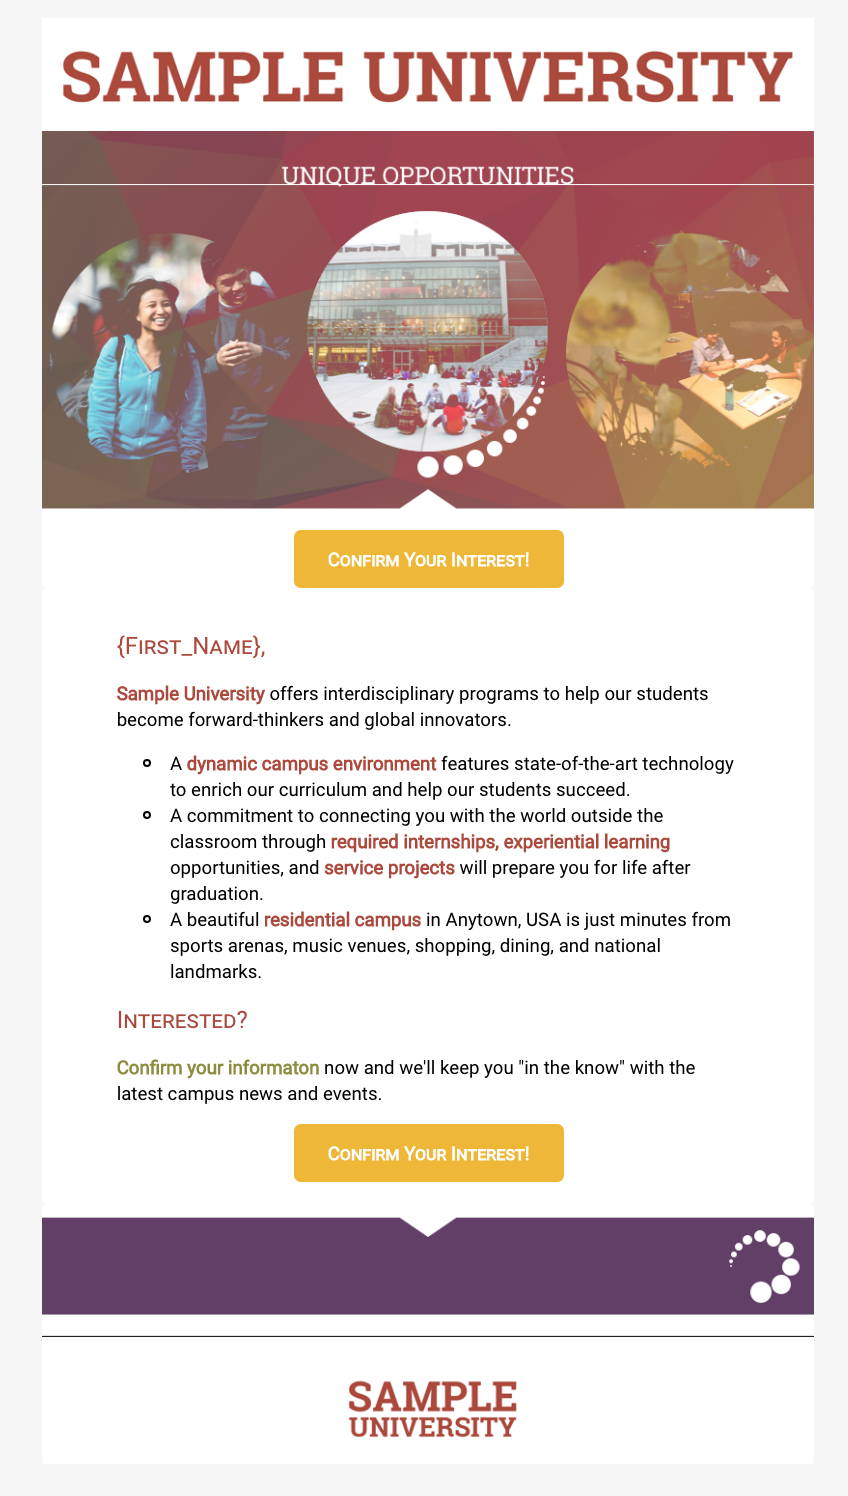
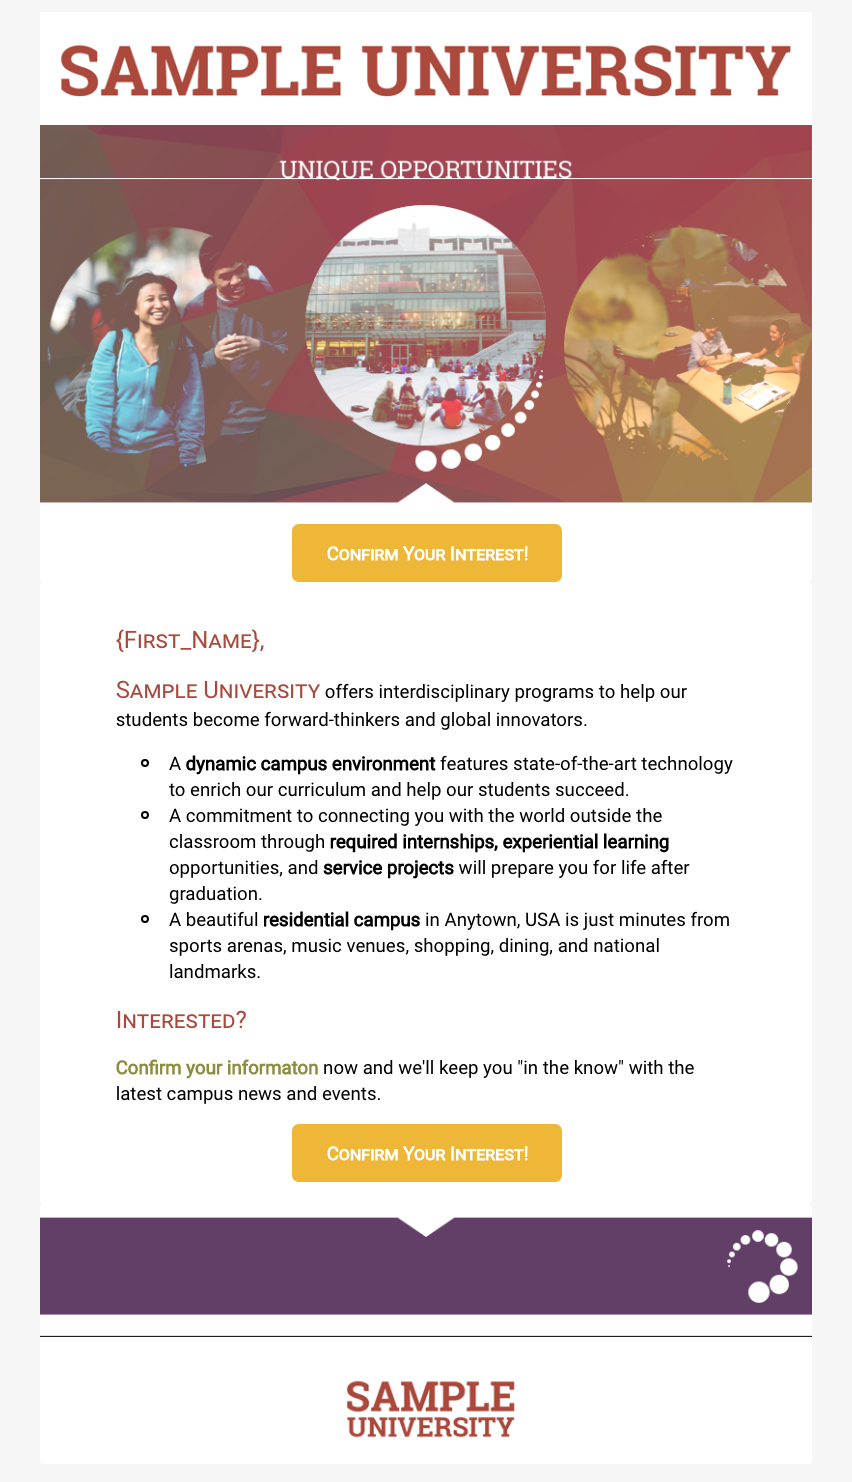
add new screen shot/change color of font

diff --git a/index.html b/index.html
@@ -111,10 +111,6 @@
     ul {
       list-style-type: circle;
     }
-    .color {
-      color: #AB493C;
-      font-weight: bold;
-    }
     .important {
       color: #AB493C;
       font-size: 18px;
@@ -300,11 +296,11 @@
                     <tr>
                       <td class="info">
                         <p><span class="important">{First_Name},</span></p>
-                        <p><span class="color">Sample University</span> offers interdisciplinary programs to help our students become forward-thinkers and global innovators.</p>
+                        <p><span class="important">Sample University</span> offers interdisciplinary programs to help our students become forward-thinkers and global innovators.</p>
                         <ul>
-                          <li>A <span class="color">dynamic campus environment</span> features state-of-the-art technology to enrich our curriculum and help our students succeed.</li>
-                          <li>A commitment to connecting you with the world outside the classroom through <span class="color">required internships, experiential learning</span> opportunities, and <span class="color">service projects</span> will prepare you for life after graduation.</li>
-                          <li>A beautiful <span class="color">residential campus</span> in Anytown, USA is just minutes from sports arenas, music venues, shopping, dining, and national landmarks.</li>
+                          <li>A <strong>dynamic campus environment</strong> features state-of-the-art technology to enrich our curriculum and help our students succeed.</li>
+                          <li>A commitment to connecting you with the world outside the classroom through <strong>required internships, experiential learning</strong> opportunities, and <strong>service projects</strong> will prepare you for life after graduation.</li>
+                          <li>A beautiful <strong>residential campus</strong> in Anytown, USA is just minutes from sports arenas, music venues, shopping, dining, and national landmarks.</li>
                         </ul>
                         <p><span class="important">Interested?</span></p>
                         <p><a href="#">Confirm your informaton</a> now and we'll keep you "in the know" with the latest campus news and events.</p>
